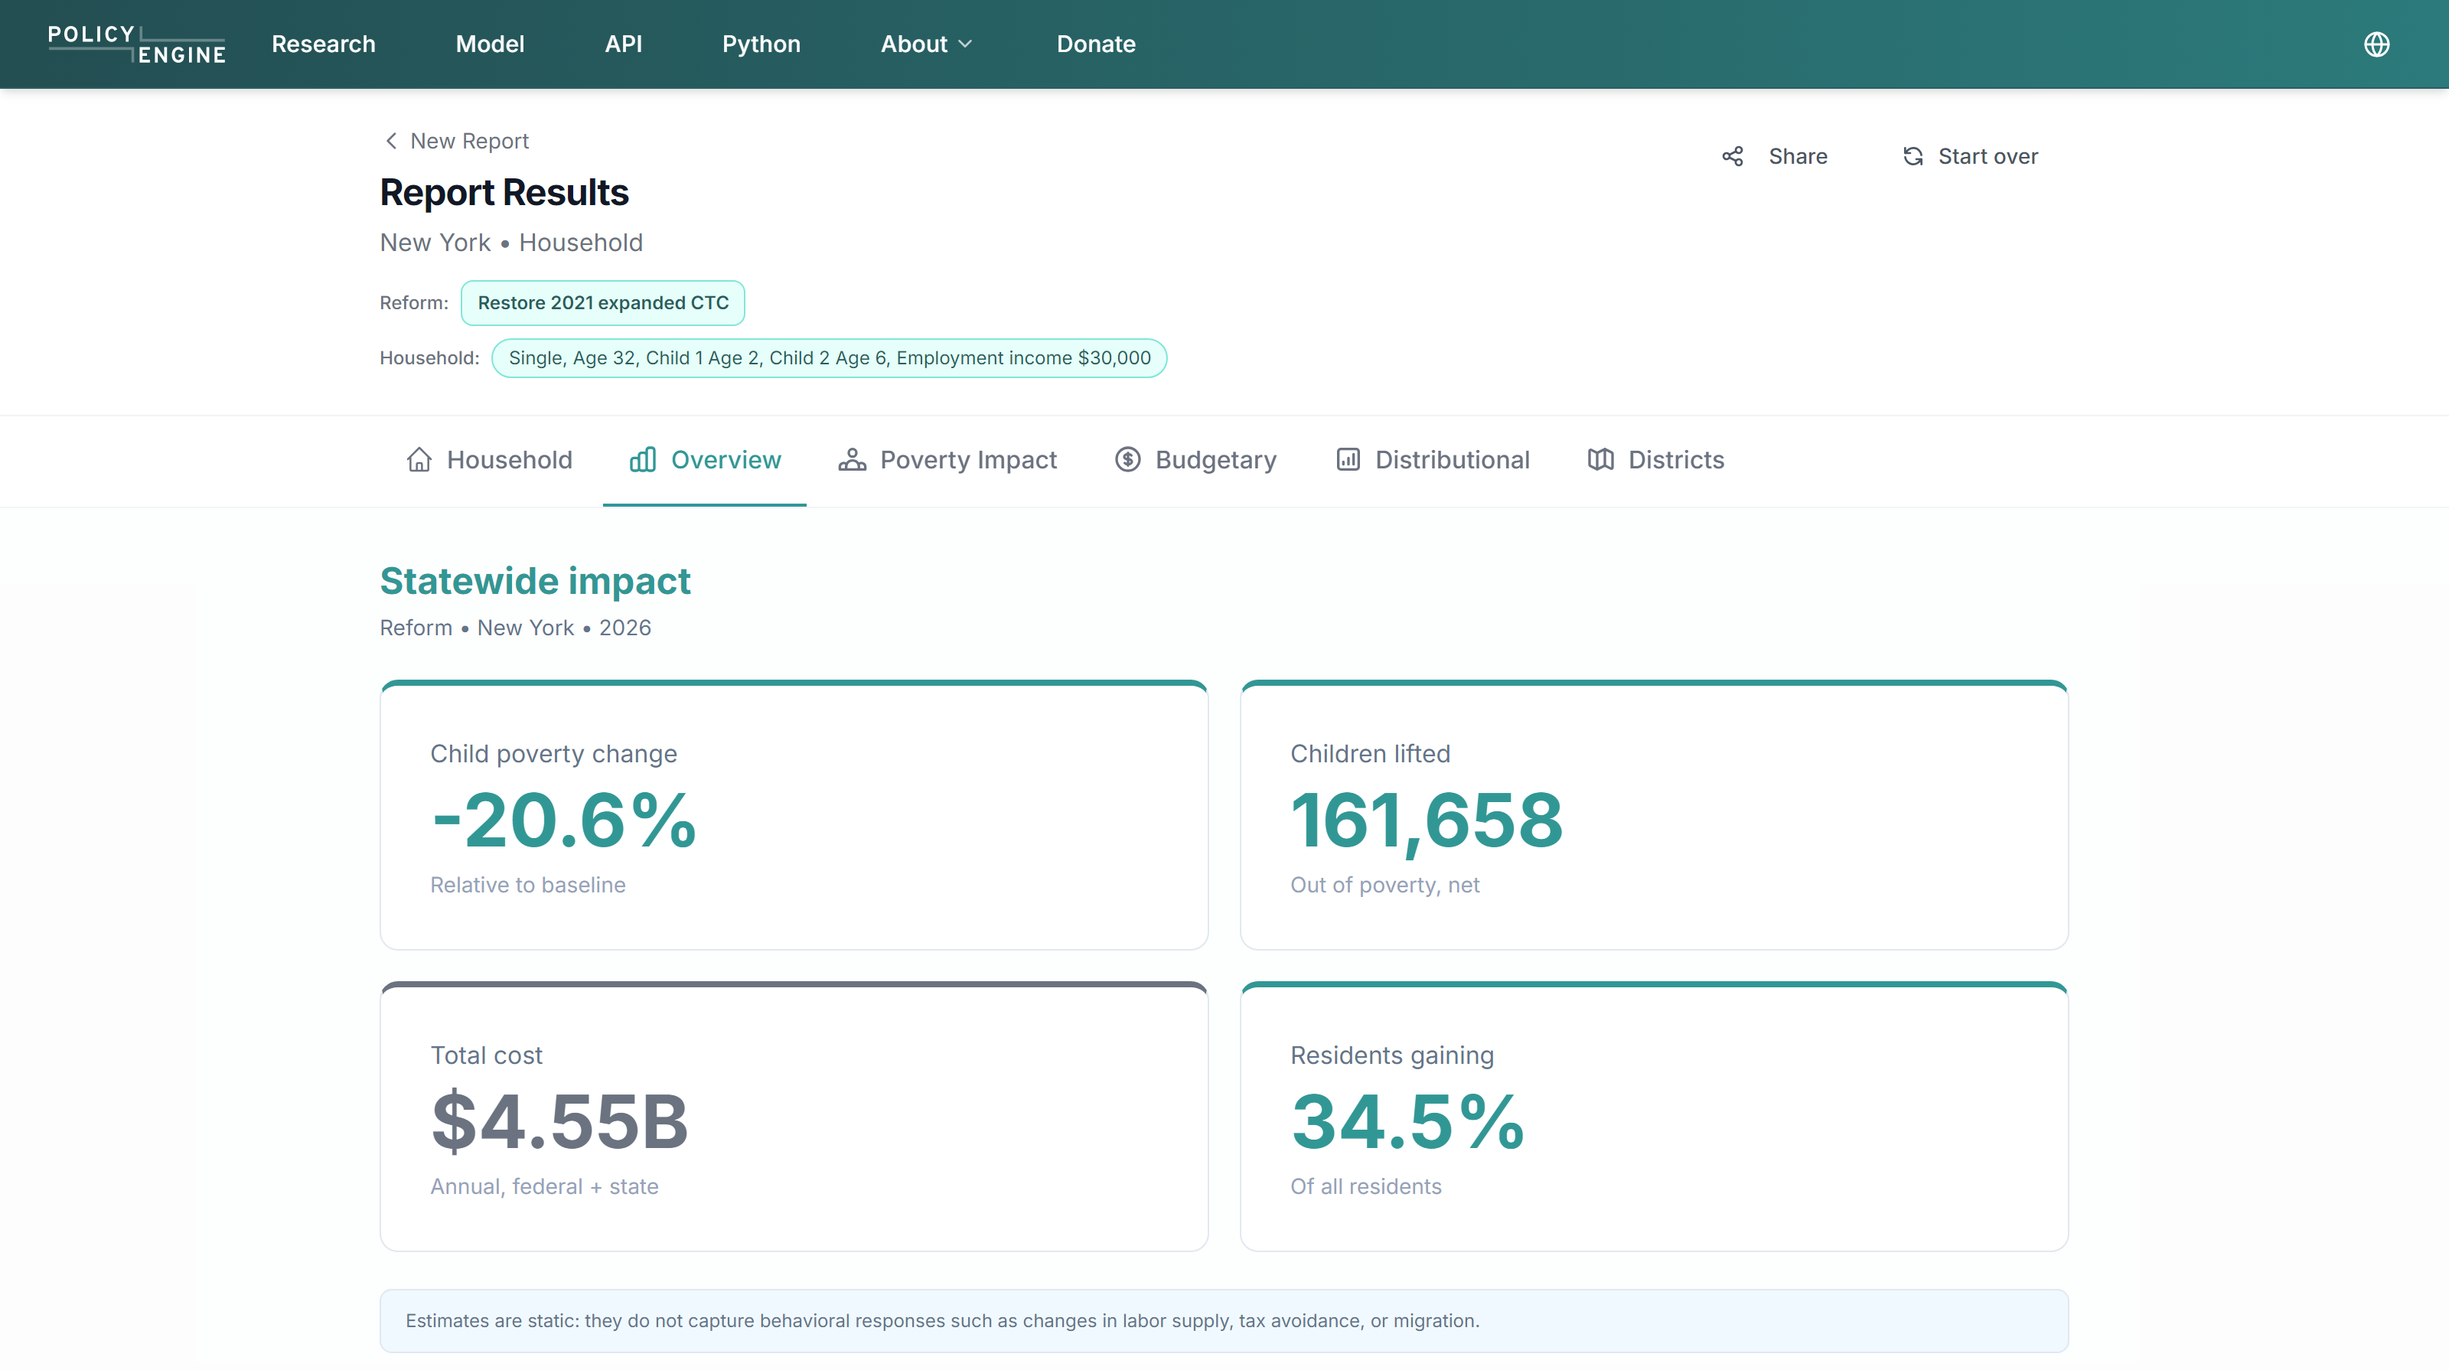
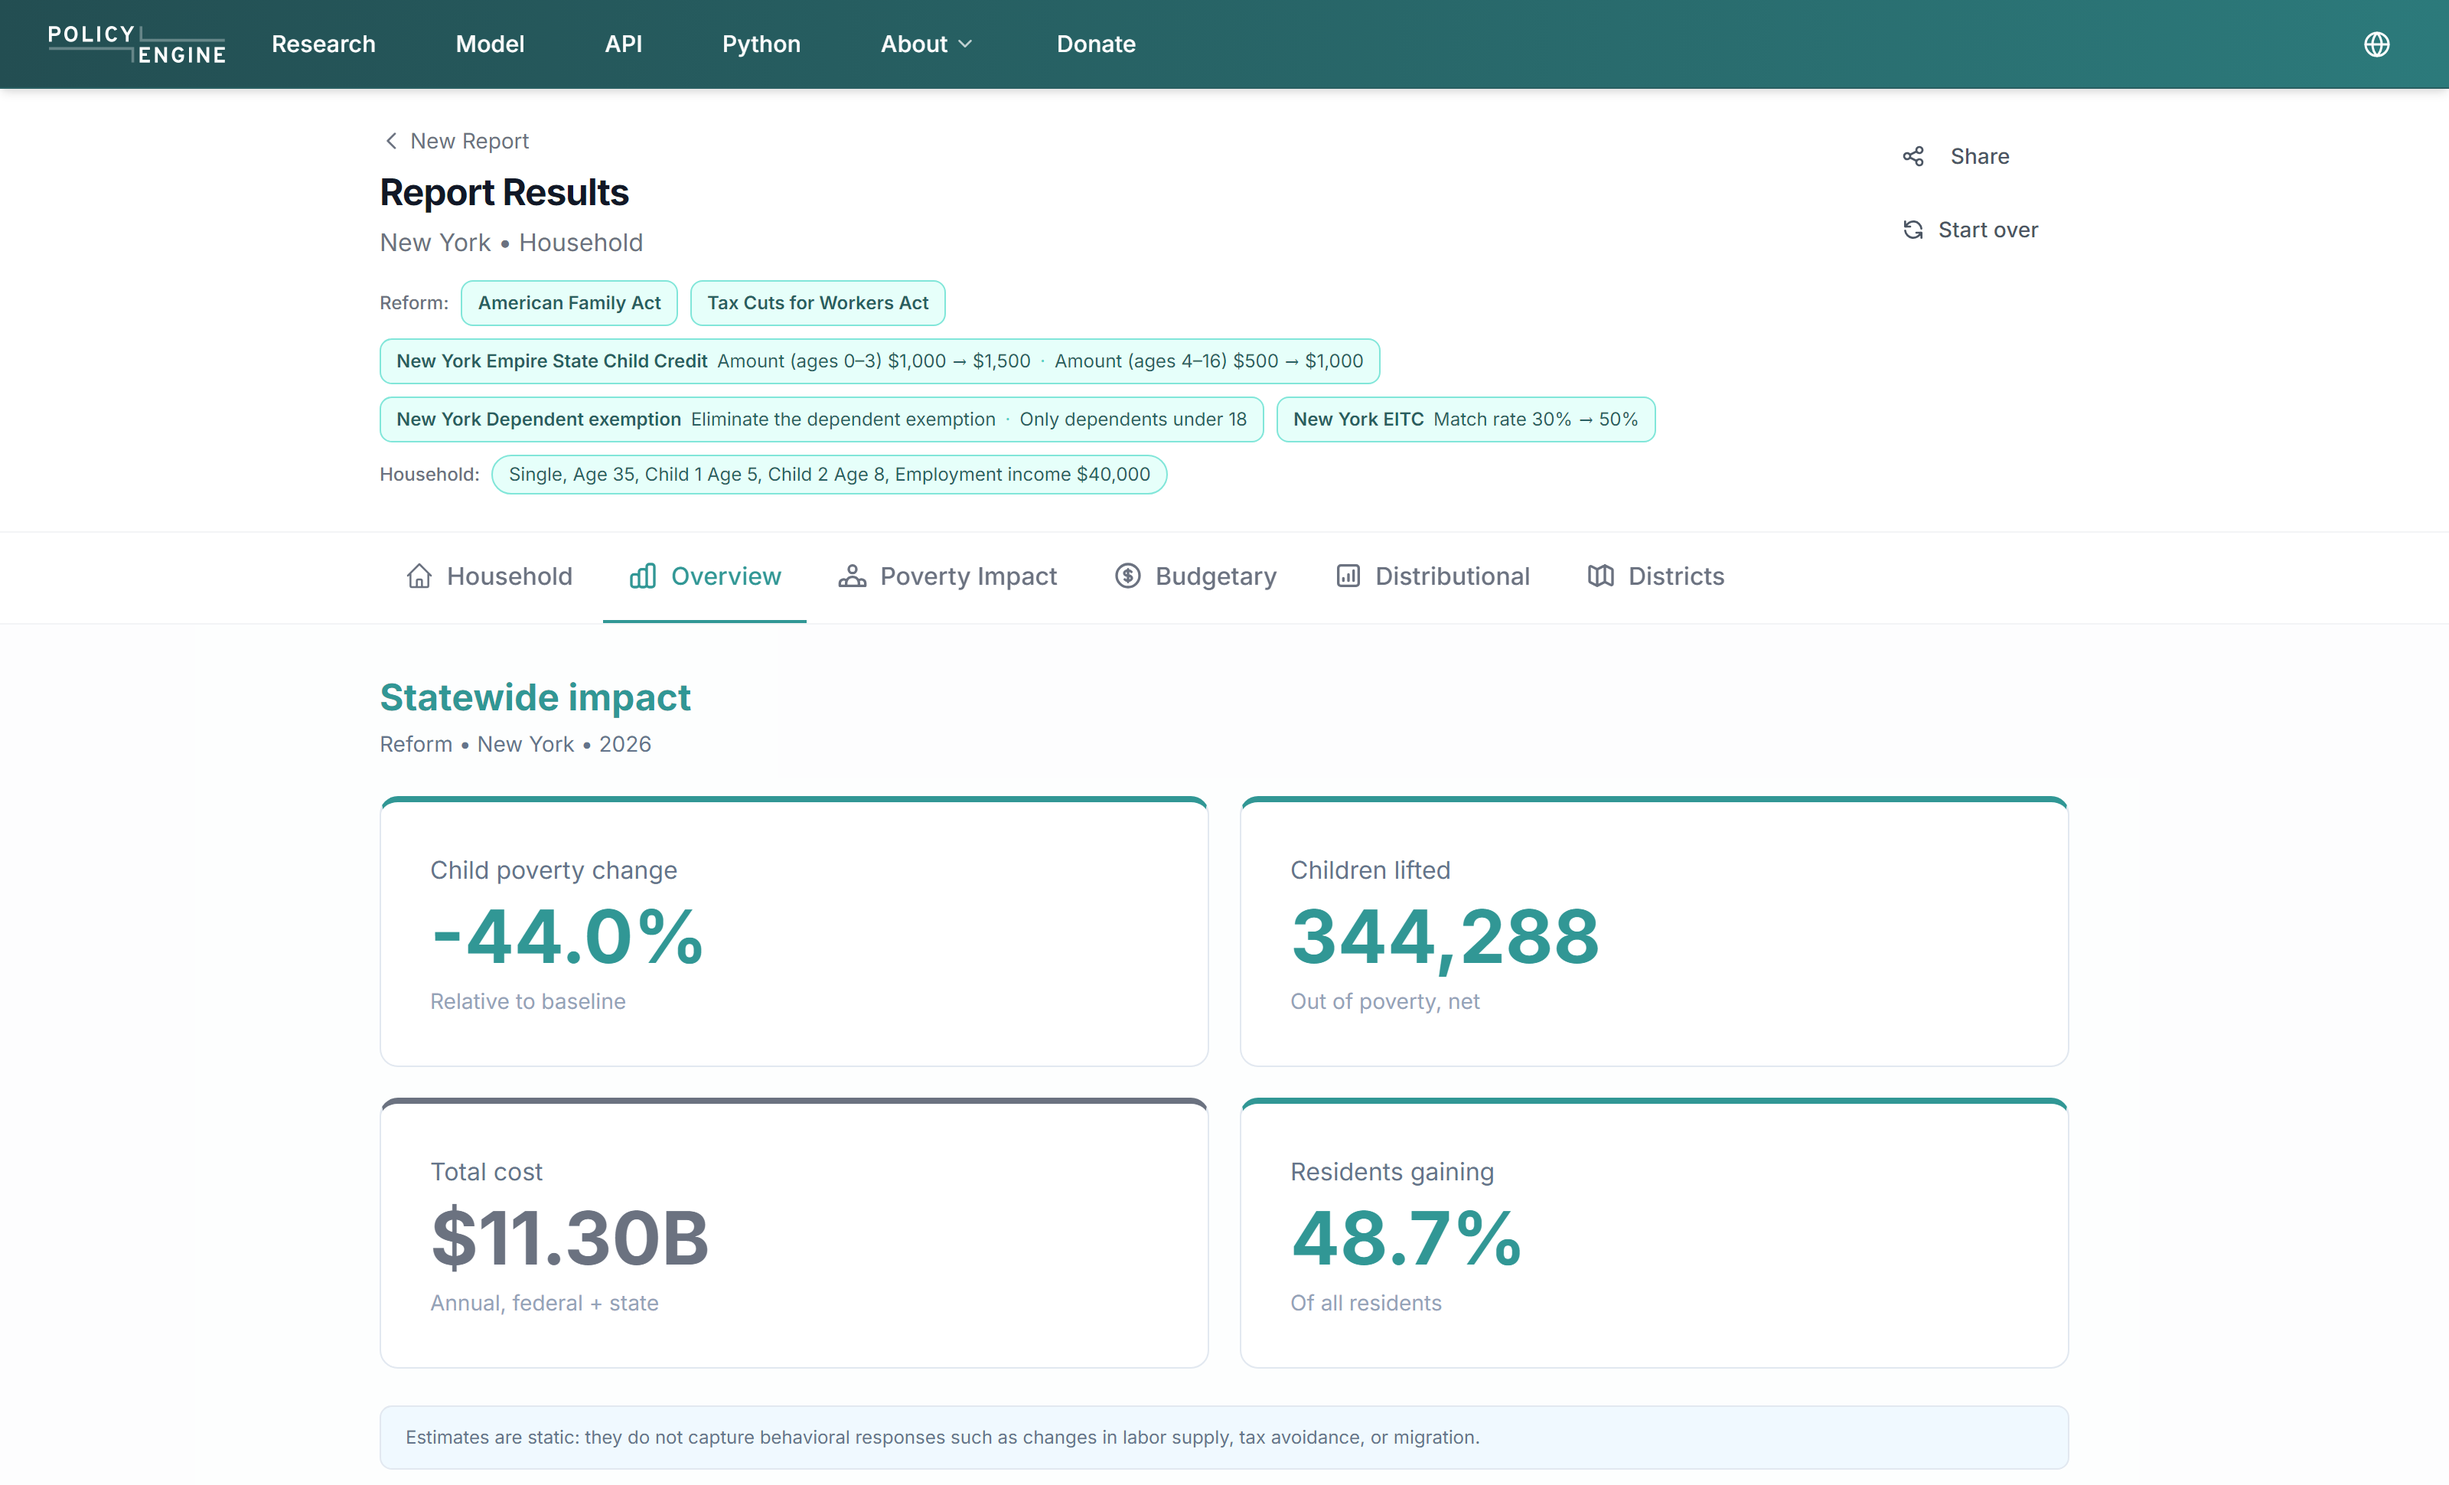
Use the r=19 NY federal-state package as the demo example
Claude-Session: https://claude.ai/code/session_01Jo3mCHfzzzmHtiuWqdXLKU

diff --git a/slideshows/cpid-webinar-2026/slides/DashboardScreenshotSlide.tsx b/slideshows/cpid-webinar-2026/slides/DashboardScreenshotSlide.tsx
@@ -2,16 +2,18 @@ import ScreenshotSlide from '@/slideshows/iariw-2026/slides/ScreenshotSlide';
 import { DASHBOARD_DISPLAY_URL } from '../dashboardUrl';
 
 /** No-network fallback for the live demo: a completed statewide run
- * (New York, restore the 2021 expanded CTC) captured 9/11 on the final
- * build. The same report is cached at ?r=15, so it also opens instantly
- * live if the iframe misbehaves. */
+ * (New York, combined federal-state package: American Family Act, Tax Cuts
+ * for Workers Act, larger Empire State Child Credit, 50% state EITC match,
+ * dependent exemption ended) captured 9/14 on the final build. The same
+ * report is cached at ?r=19, so it also opens instantly live if the iframe
+ * misbehaves. */
 export default function DashboardScreenshotSlide() {
   return (
     <ScreenshotSlide
       title="A finished statewide run"
       src="/screenshots/cpid-webinar-2026/dashboard-results.png"
-      alt="Statewide results: New York, 2021 expanded CTC restored - child poverty down 20.6%, 161,658 children lifted, \$4.55B annual cost"
-      caption="New York, 2026, restoring the 2021 expanded Child Tax Credit: child poverty falls 20.6%, lifting 161,658 children, at \$4.55B a year."
+      alt="Statewide results: New York, combined federal-state package - child poverty down 44.0%, 344,288 children lifted, \$11.30B annual cost"
+      caption="New York, 2026, a combined federal-state package: child poverty falls 44%, lifting 344,288 children, at \$11.3B a year across both levels of government."
       url={DASHBOARD_DISPLAY_URL}
     />
   );
